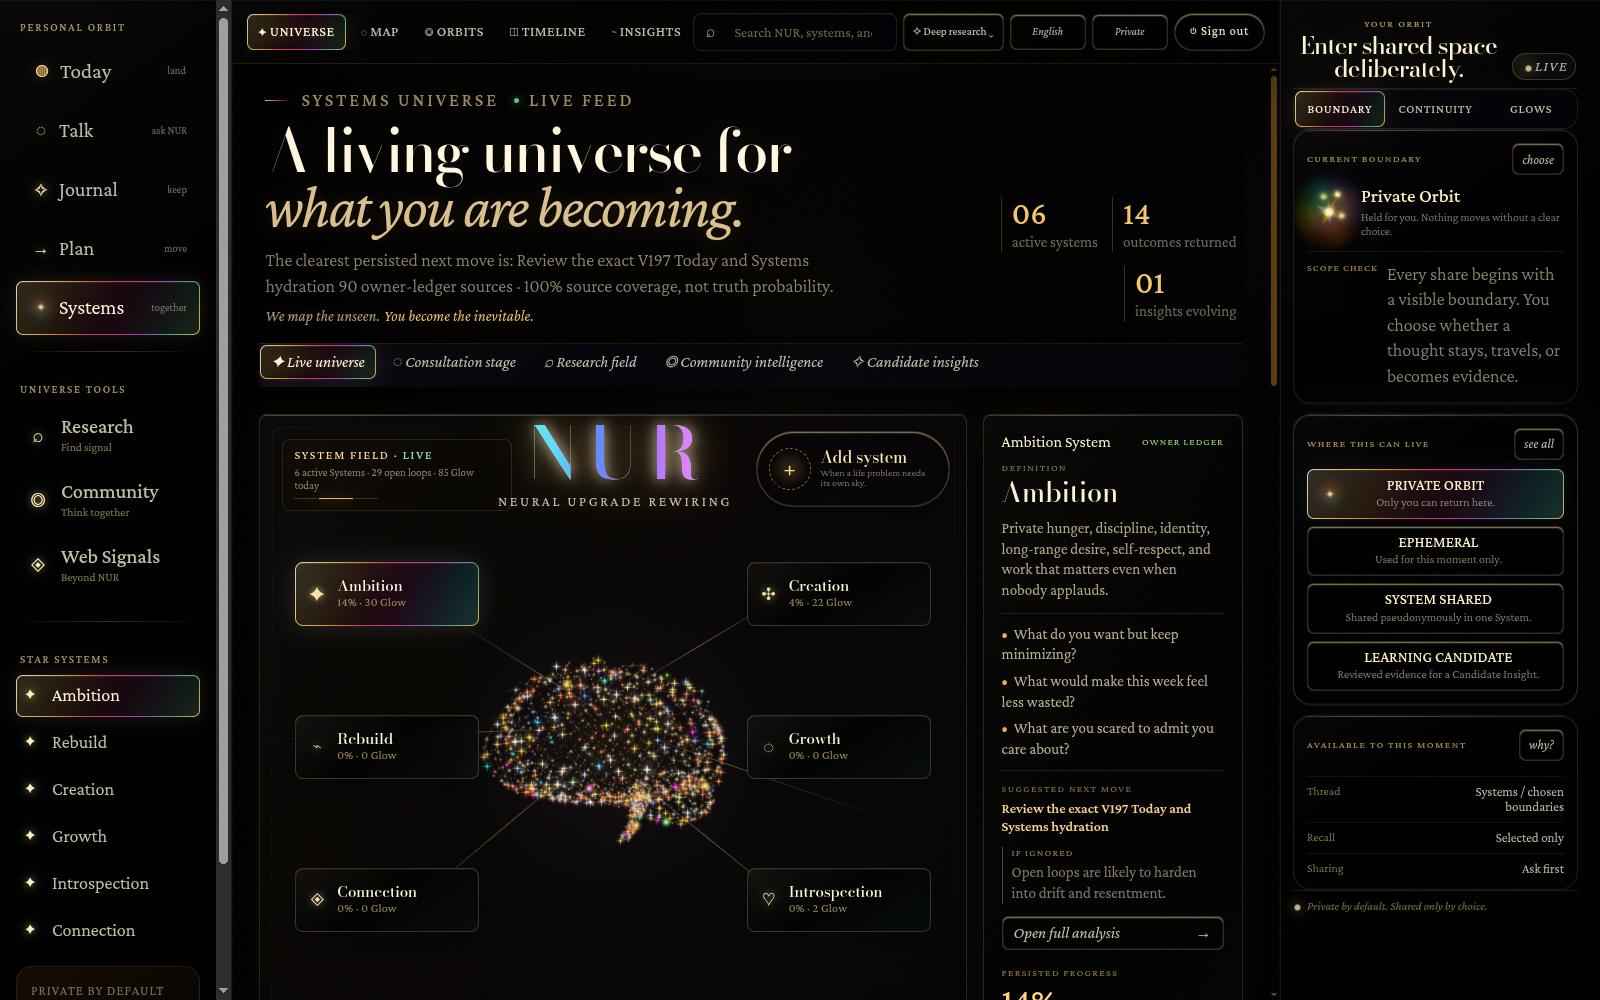
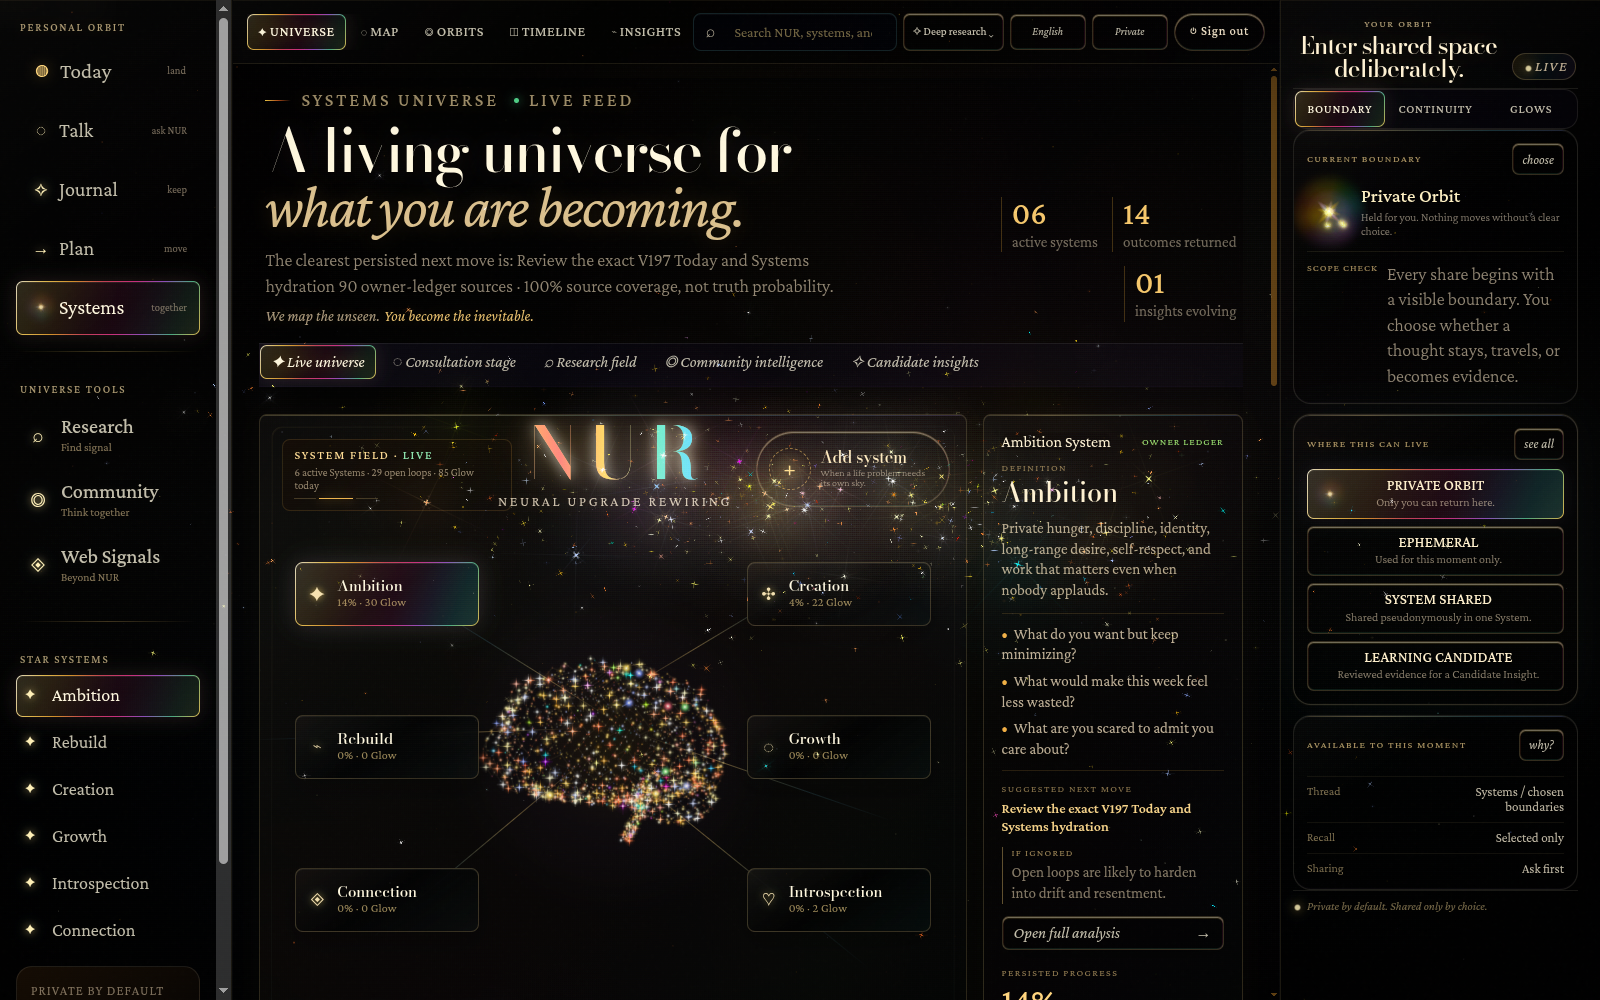
fix(v197): stop the page shell painting a black sheet over the galaxy
The star field was never missing. It was covered.

`#space3d` is a fixed full-viewport canvas at z-index 280 with
`mix-blend-mode: screen`. The active page section sits at z-index 305 and
painted `rgba(0, 0, 0, 0.7)` across the entire viewport, so 70% of the sky was
subtracted on its way to the screen.

Measured by reading the canvas back directly on /systems: 238,712 lit pixels at
max luminance 255, with `shouldRender: true` and `frameScheduled: true` — the
runtime was drawing a full galaxy the whole time and none of it was reaching the
viewer. Every earlier diagnosis that blamed particle counts, DPR, the nebula
call or the render loop was looking at the wrong layer.

The page keeps its stacking and its panels keep their glass; only the full-bleed
wash is removed, so stars stay visible behind and through the interface.

After, both universe routes paint continuously: /systems 238,537 lit px and
/talk 238,519 lit px across four samples, max luminance 255 on both.

Also: the render watchdog from the previous commit was not actually reaching the
browser. `vite preview` caches `vite.config.ts`, which is where the runtime
bootstrap is generated, so the server had to be restarted for the change to be
served at all. Verified in the served HTML before trusting any reading from it.

Changed region(s): [[0.3438, 0.403, 0.7188, 0.589], [0.2812, 0.651, 0.4688, 0.837], [0.8125, 0.186, 0.8438, 0.248]]

diff --git a/apps/web/src/styles/v197-holographic.css b/apps/web/src/styles/v197-holographic.css
@@ -443,3 +443,24 @@ body.universe-edition .talk-stream::-webkit-scrollbar-track,
 body.universe-edition #journal-input::-webkit-scrollbar-track {
   background: transparent;
 }
+
+/* ── 6. Let the galaxy through the page shell ───────────────────────────────
+   The star field lives on `#space3d`, a fixed full-viewport canvas at
+   z-index 280 with `mix-blend-mode: screen`. The active page section sits at
+   z-index 305 and paints `rgba(0, 0, 0, 0.7)` across the whole viewport, so a
+   70% black sheet covered the sky: measured 239,853 lit canvas pixels at max
+   luminance 255, and none of them reaching the screen.
+
+   That is why the galaxy looked missing while every particle existed and the
+   render loop was running — the canvas was never the problem, the sheet on top
+   of it was.
+
+   The page keeps its own stacking and its panels keep their glass; only the
+   full-bleed wash is removed, so stars stay visible behind and through the
+   interface. */
+body.universe-edition .nur-page,
+body.universe-edition .nur-page.active,
+body.universe-edition .universe-page-shell {
+  background-color: transparent !important;
+  background-image: none !important;
+}
